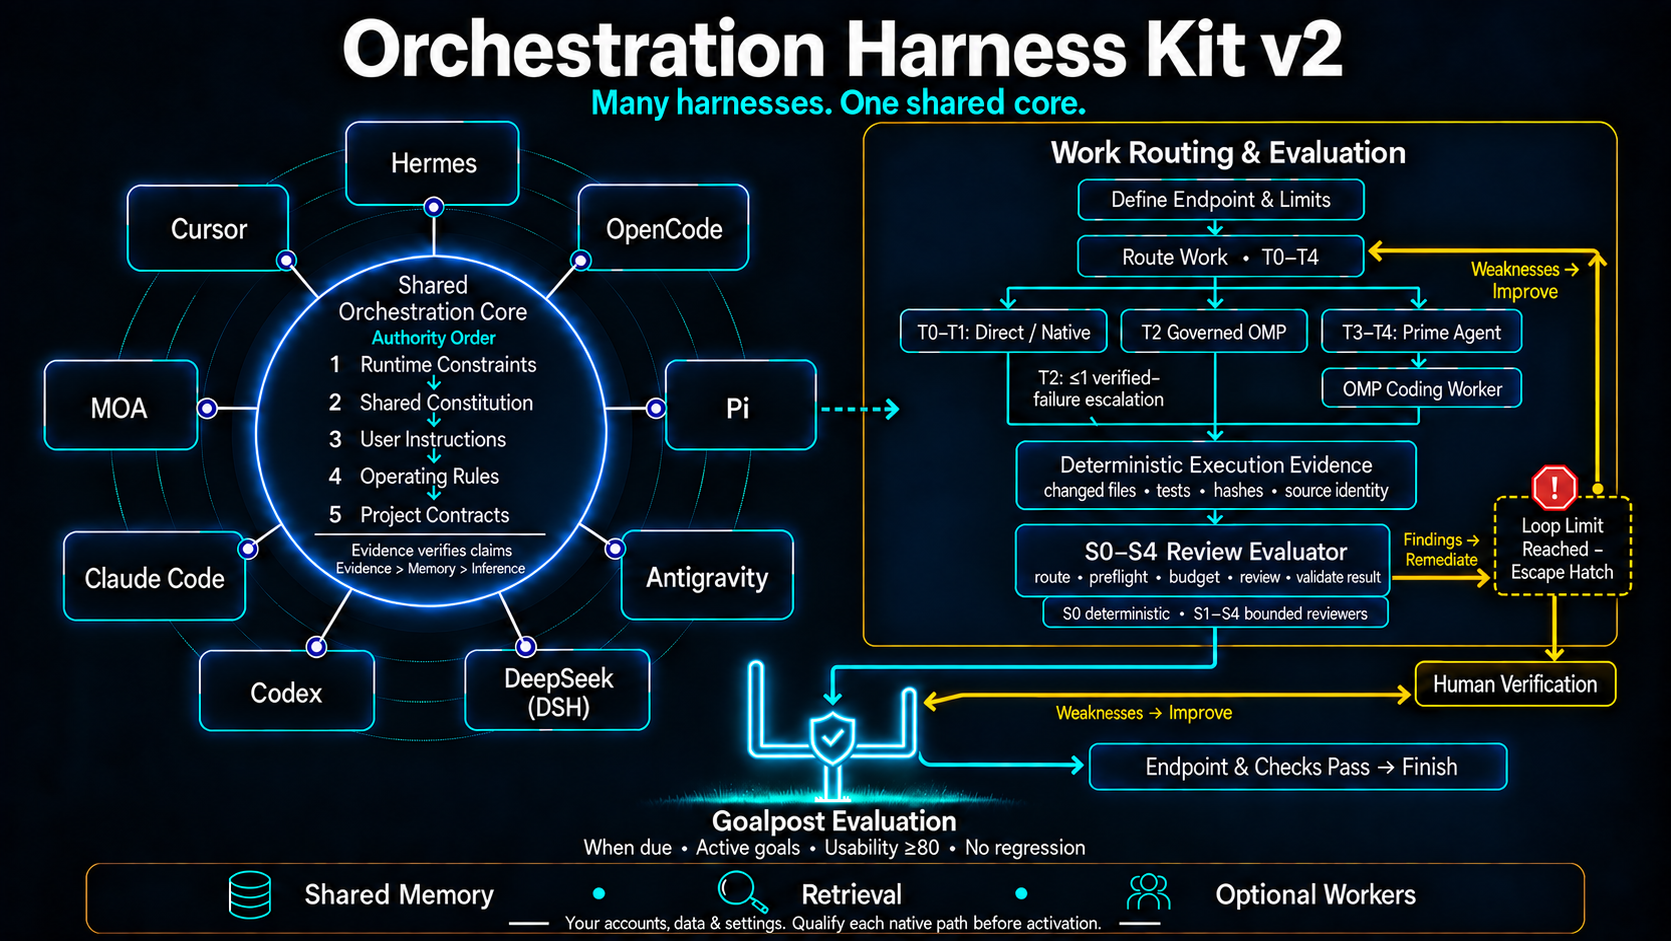
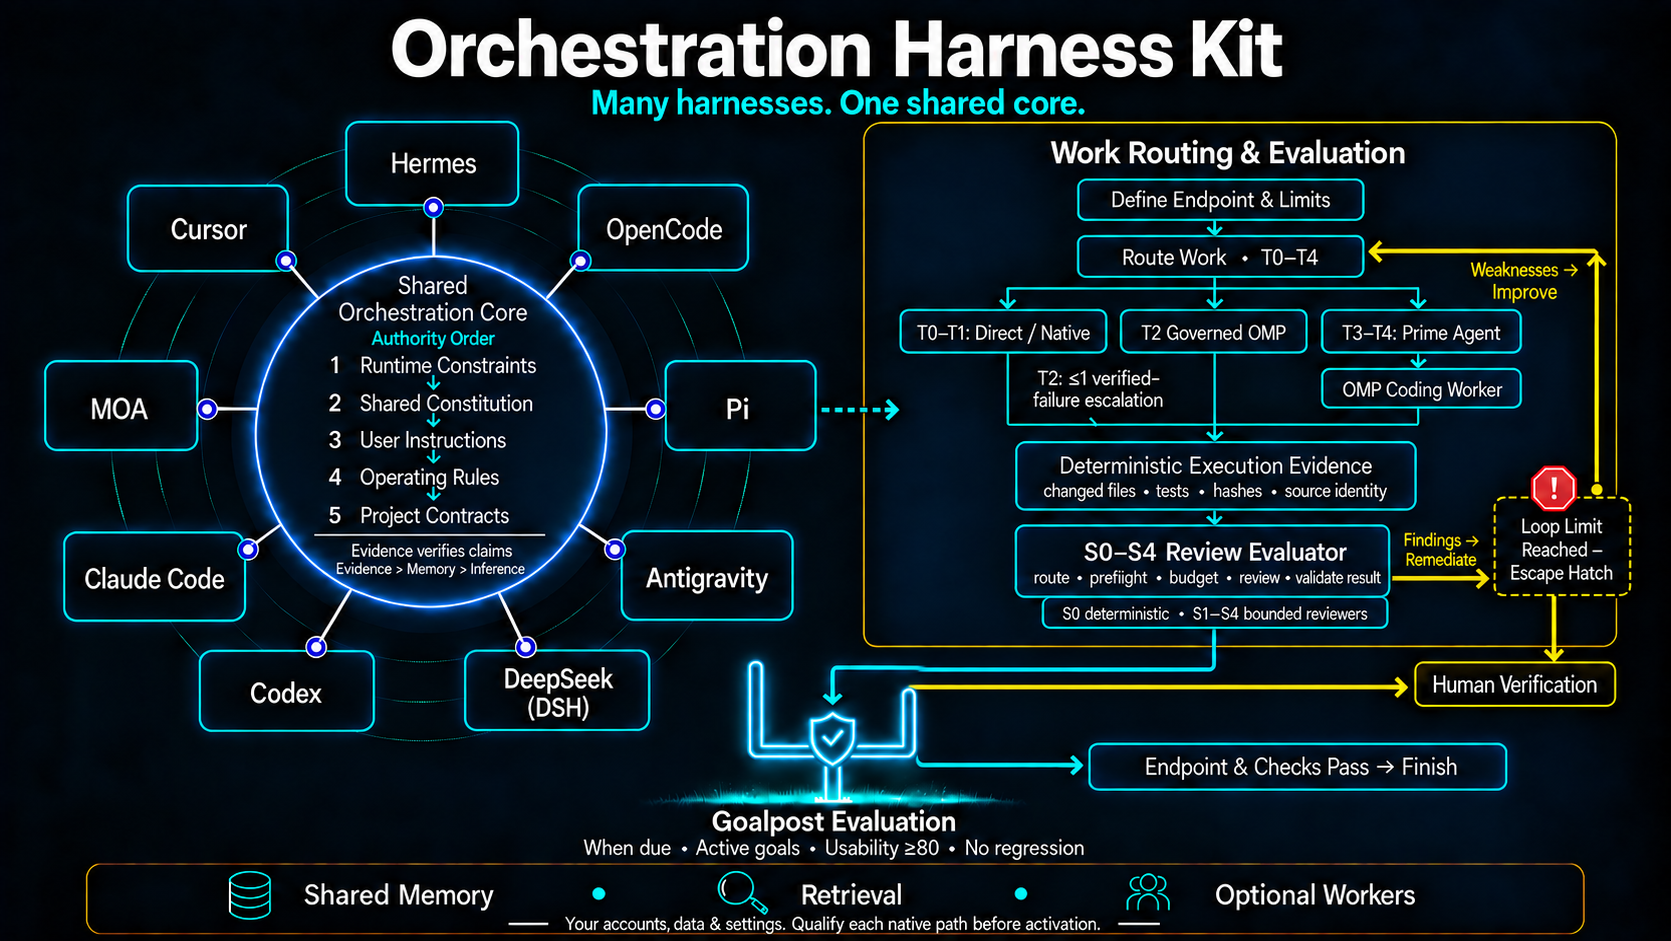
docs(v3): add MARM and parallelism architecture visuals

diff --git a/README.md b/README.md
@@ -27,9 +27,9 @@ optional modules you enable later; neither becomes a second storage writer.
 
 ## Shared authority and work routing
 
-![Nine peer harnesses, including DeepSeek (DSH), share one authority core. T2 executes through governed OMP independently. Deterministic execution evidence feeds one S0-S4 evaluator whose internal controls route, admit budgets, run any required reviewers, and validate results before due goalposts govern completion. Each installation qualifies its own native paths.](assets/harness-fusion-hierarchy.png)
+![Peer harnesses share one authority core. T2 executes through governed OMP independently. Deterministic execution evidence feeds one S0-S4 evaluator whose internal controls route, admit budgets, run any required reviewers, and validate results before due goalposts govern completion. Each installation qualifies its own native paths.](assets/harness-fusion-hierarchy.png)
 
-All nine harnesses connect as peers to the shared orchestration core. The left
+The peer harnesses connect to the shared orchestration core. The left
 side shows authority precedence, with evidence supporting factual claims.
 The right side shows execution routing, Prime Agent coordinating OMP workers,
 and deterministic execution evidence feeding one S0-S4 review evaluator. Its
@@ -37,6 +37,19 @@ preflight, budget, invocation, and result-validation controls are internal to
 that evaluator. Work continues
 until the endpoint passes or a loop limit triggers the escape hatch. Human
 verification provides a separate review path.
+
+## MARM retrieval and governed parallelism
+
+![MARM uses five intent-routed retrieval lanes backed by a derived ontology sidecar while governed parallelism routes bounded work through T0-T4, evidence aggregation, review, goalposts, and a human checkpoint.](assets/marm-parallelism-architecture.png)
+
+MARM adds five retrieval lanes: exact, semantic, document, relationship, and
+multi-hop. MemoryWeaver remains canonical; the ontology is a derived,
+disposable sidecar that enriches relationship and multi-hop queries without
+overwriting primary semantic ranking. GraphRAG remains available only for
+manual diagnostics while unverified; LightRAG is not in the production path.
+On the execution side, T0-T4 routing uses bounded parallel workers only where
+appropriate, aggregates deterministic evidence, and cannot cut over without
+goalpost evaluation and a human checkpoint.
 
 ## What's in the box (plain-language tour)
 
